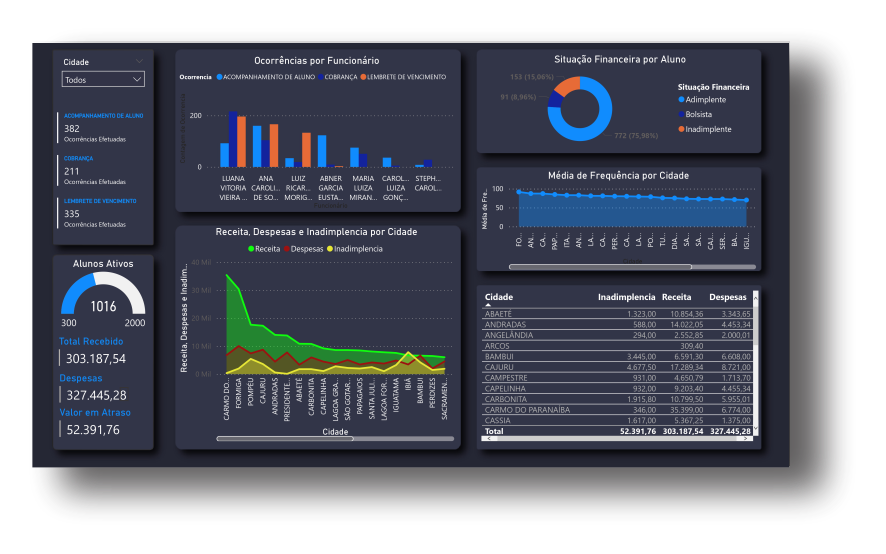
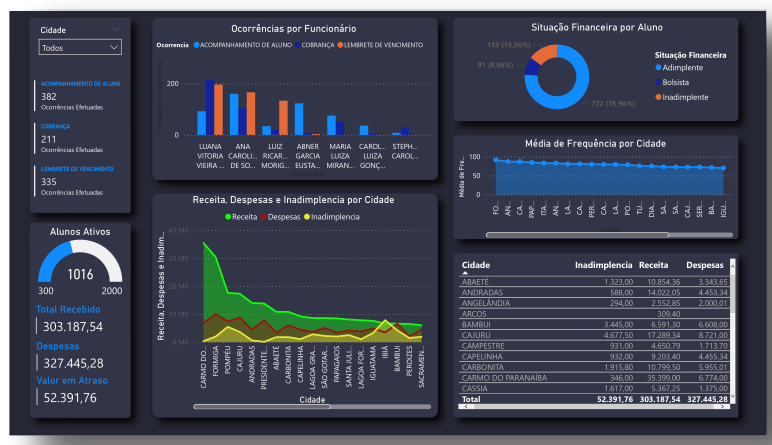
update commit

diff --git a/src/app/components/home/home.component.html b/src/app/components/home/home.component.html
@@ -21,27 +21,29 @@
 </section>
 
 <hr>
-
-<section class="sessao-dados" data-aos="fade-right" data-aos-duration="1500">
-    
-    <div class="dados-header">
-        <h5>Skills</h5>
-        <h1>Analise de Dados</h1>
+<div class="dados-header">
+    <div class="dados-text">
+        <h5>dados</h5>
+        <h1>Vizualize os Dados</h1>
         <p>Habilidade de transformar os dados da sua empresa em informações valiosas.
         </p>
     </div>
-    
-    <div class="dados-container">
-        <div class="dados-item">
-            <img src="./assets/images/dash01.png" alt="">
-        </div> 
-        <div class="dados-item">
-                <h3>Tranforme seu banco de dados em informações:</h3>
-                <p>Através de tecnicas de analise de dados, é possivel transformar o banco de dados da sua empresa em informações valiosas
-                    para a tomada de decisão! Evite prejuízos imprevistos vizualizando o que os dados do seu negócio tem a dizer!
-                </p>
-        </div>
-        <div class="dados-item">
+</div>
+
+<section class="sessao-dados" data-aos="fade-right" data-aos-duration="1500">
+    <div class="dados-item">
+        <carousel>
+            <slide>
+                <img src="./assets/images/dash01.png" alt="first slide" style="display: block; width: 100%;">
+            </slide>
+            <slide>
+                <img src="./assets/images/dash01.png" alt="second slide" style="display: block; width: 100%;">
+            </slide>
+            <slide>
+                <img src="./assets/images/dash01.png" alt="third slide" style="display: block; width: 100%;">
+            </slide>
+        </carousel>
+        <div class="dados-item-img">
             <img src="./assets/images/data.png">
             <img src="./assets/images/python.png">
             <img src="./assets/images/excel.png">                             
@@ -49,7 +51,21 @@
             <img src="./assets/images/painel-de-controle.png">
             <img src="./assets/images/innovation.png">
         </div>
-    </div>   
+    </div>
+    <div class="dados-text">
+        <h5>Skills</h5>
+        <h1>Analise de Dados</h1>
+        <p>Habilidade de transformar os dados da sua empresa em informações valiosas.
+        </p>
+    </div>
+    <div class="dados-text">
+        <h5>dados</h5>
+        <h1>Vizualize os Dados</h1>
+        <p>Habilidade de transformar os dados da sua empresa em informações valiosas.
+        </p>
+    </div>
+    
+      
 </section>
 
 <hr>

diff --git a/src/app/components/home/home.component.css b/src/app/components/home/home.component.css
@@ -76,56 +76,47 @@ box-shadow: inset 4px 4px 12px #c5c5c5,
 }
 
 /*Analise de Dados*/
-.sessao-dados{
-    background: #ffffff;
-    height: 80vh;
-    margin: 0px 100px 0px 100px;
-}
-
 .dados-header{
+    margin-top: 12vh;
+    padding: auto;
+}
+
+.sessao-dados{
+    display: grid;
+    grid-template-columns: repeat(2, 1fr);
+    align-items: center;
+    grid-gap: 4rem;
     text-align: center;
-    margin-bottom: 50px;
+    background: #ffffff;
 }
 
-.dados-descrip{
-    display: flex;
-    flex-direction: row-reverse;
-    justify-content: space-evenly;
-    align-items: center;
+.dados-text{
+    text-align: center;
 }
 
-.dados-dash{
-
-}
-
-.dados-dash img{
-    width: 50vw;
-}
-
-.dados-icons{
-    display: flex;
-    justify-content: center;
-    align-items: center;
-}
-
-.dados-icons img{
-    align-items: center;
-    width: 45px;
-    margin: 15px;
-}
-
-.dados-header h5{
+.dados-text h5{
     color: rgb(67, 1, 120);
 }
 
-.dados-header h1{
+.dados-text h1{
     margin-bottom: 30px;
 }
 
-.dados-skills{
+.dados-item{
+    
+}
+
+.dados-item-img{
     display: flex;
-    flex-direction: column;
-    justify-content: space-between;
+    justify-content: center;
+    align-items: center;
+    text-align: center;
+    margin-top: 0.9vh;
+}
+
+.dados-item-img img{
+    width: 21px;
+    margin: 9px;
 }
 
 /*Front End*/
